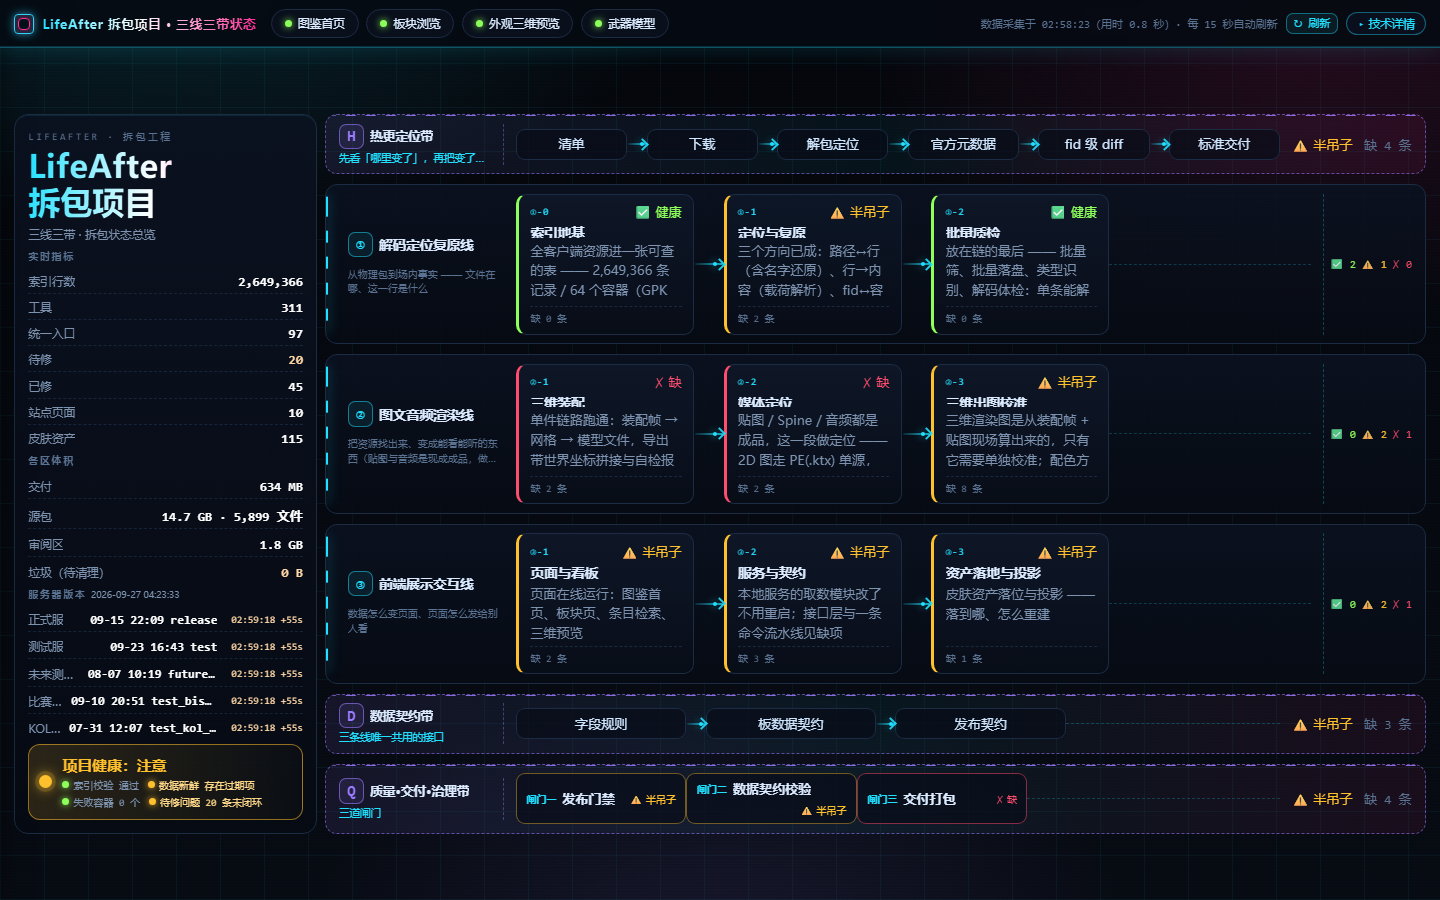
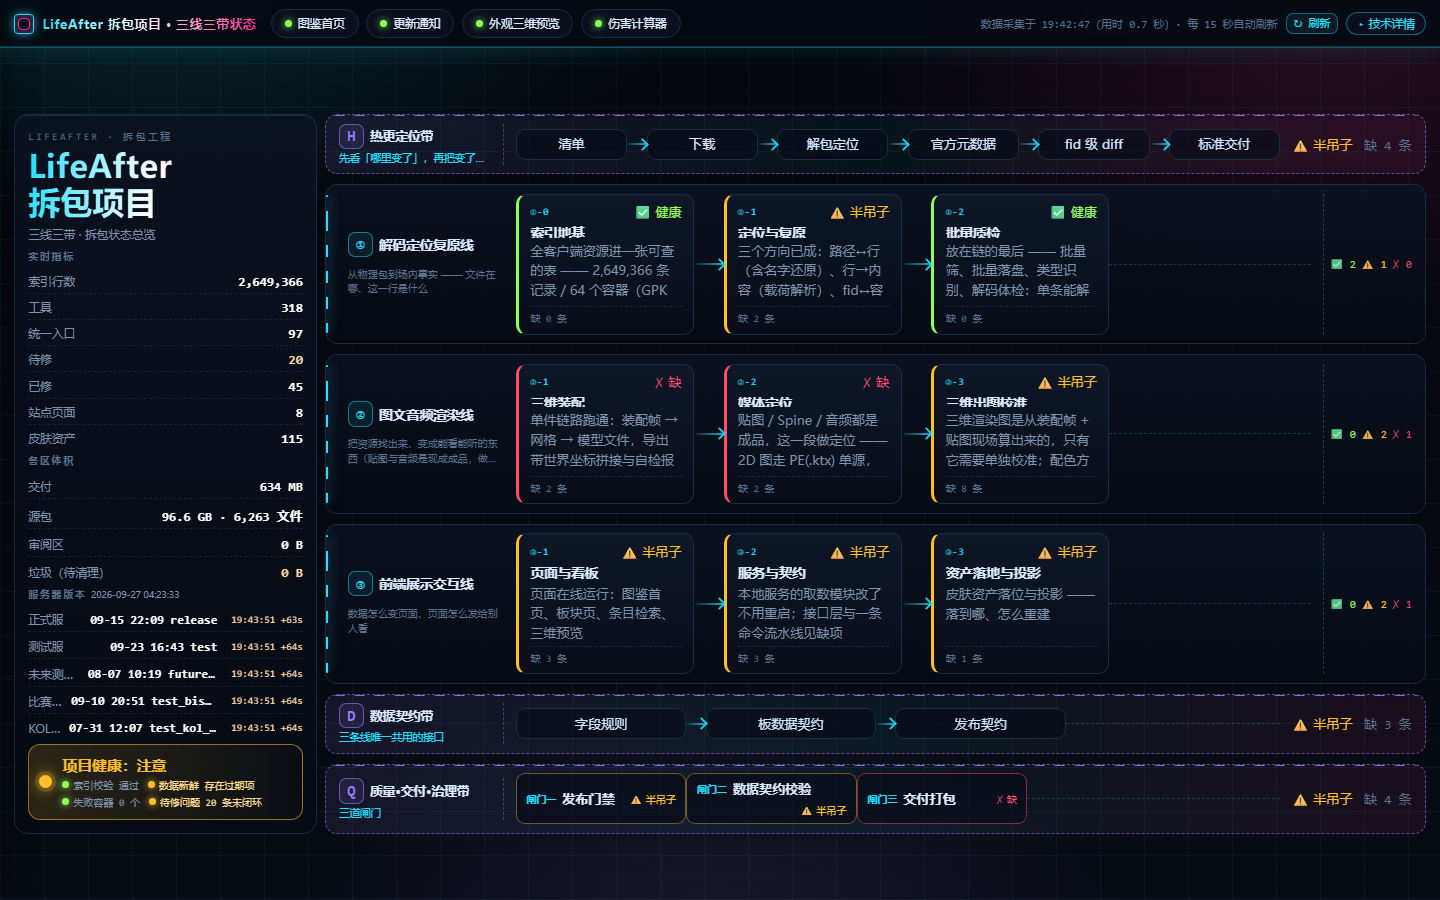
docs(readme): 效果预览文案按当前站点重写（7 张图配准确数字），补项目总览截图

diff --git a/README.md b/README.md
@@ -56,35 +56,33 @@
 
 ## 效果预览
 
-**① 项目总览页（三线三带）** —— 一条线看全：索引 → 定位 → 还原 → 呈现
+**① 项目总览（三线三带）** —— 解码定位复原线 / 图文音频渲染线 / 前端展示交互线，配热更、数据契约、质量治理三条横切带
 
+![项目总览](00_规范与工具/治理/手册/images/web-home.png)
 
-
-**② 图鉴站（Wiki）首页** —— 定位成果的可视化出口
+**② 图鉴首页** —— 33 个公开板块、169,676 条记录，按「置顶预告 / 时装类 / 战力类 / 活动奖池 / 综合资料」五类归档
 
 ![Wiki 首页](00_规范与工具/治理/手册/images/web-wiki.png)
 
-**③ 武器皮肤图鉴** —— 122 条皮肤，品级 / 上架状态 / 名称核验逐条标注
+**③ 武器皮肤** —— 122 款，品级、上架状态、联动 IP、名称核验逐条标注，121 款带图
 
 ![武器皮肤图鉴](00_规范与工具/治理/手册/images/web-weapon-skin.png)
 
-**④ PvP 场景平衡** —— 98 组场景档位，同名同值合并，重点场景置顶
+**④ 场景加成平衡** —— 63 组场景档位，按服型分档，同名同值合并
 
-![PvP 场景平衡](00_规范与工具/治理/手册/images/web-scene.png)
+![场景平衡](00_规范与工具/治理/手册/images/web-scene.png)
 
-**⑤ 伤害公式** —— 从 Python 字节码反编译出来的结算链
+**⑤ 伤害计算器** —— 攻击 × 场景加成 × 减伤 × 部位 × 暴击；页内直达场景总表与反编译出的伤害公式
 
-![伤害公式](00_规范与工具/治理/手册/images/web-damage.png)
+![伤害计算器](00_规范与工具/治理/手册/images/web-damage.png)
 
-**⑥ 名片框外观** —— PE 源 `.ktx` 定位 + 高清优先，454 条里挂上 369 张图
+**⑥ 头像 · 头像框 · 名片框** —— 673 条按类型与编号排序，619 条带图；PE `.ktx` 定位 + 高清优先
 
-![名片框外观](00_规范与工具/治理/手册/images/web-avatar.png)
+![头像名片框](00_规范与工具/治理/手册/images/web-avatar.png)
 
-**⑦ 时装渲染（专题）**
+**⑦ 人物时装** —— 2,016 张卡、1,742 张有图，男图覆盖 1,721 张；品级 5 典藏 / 6 幻彩 / 7 殿堂
 
-![时装渲染](00_规范与工具/治理/手册/images/web-fashion.png)
-
-
+![人物时装](00_规范与工具/治理/手册/images/web-fashion.png)
 
 ---
 
